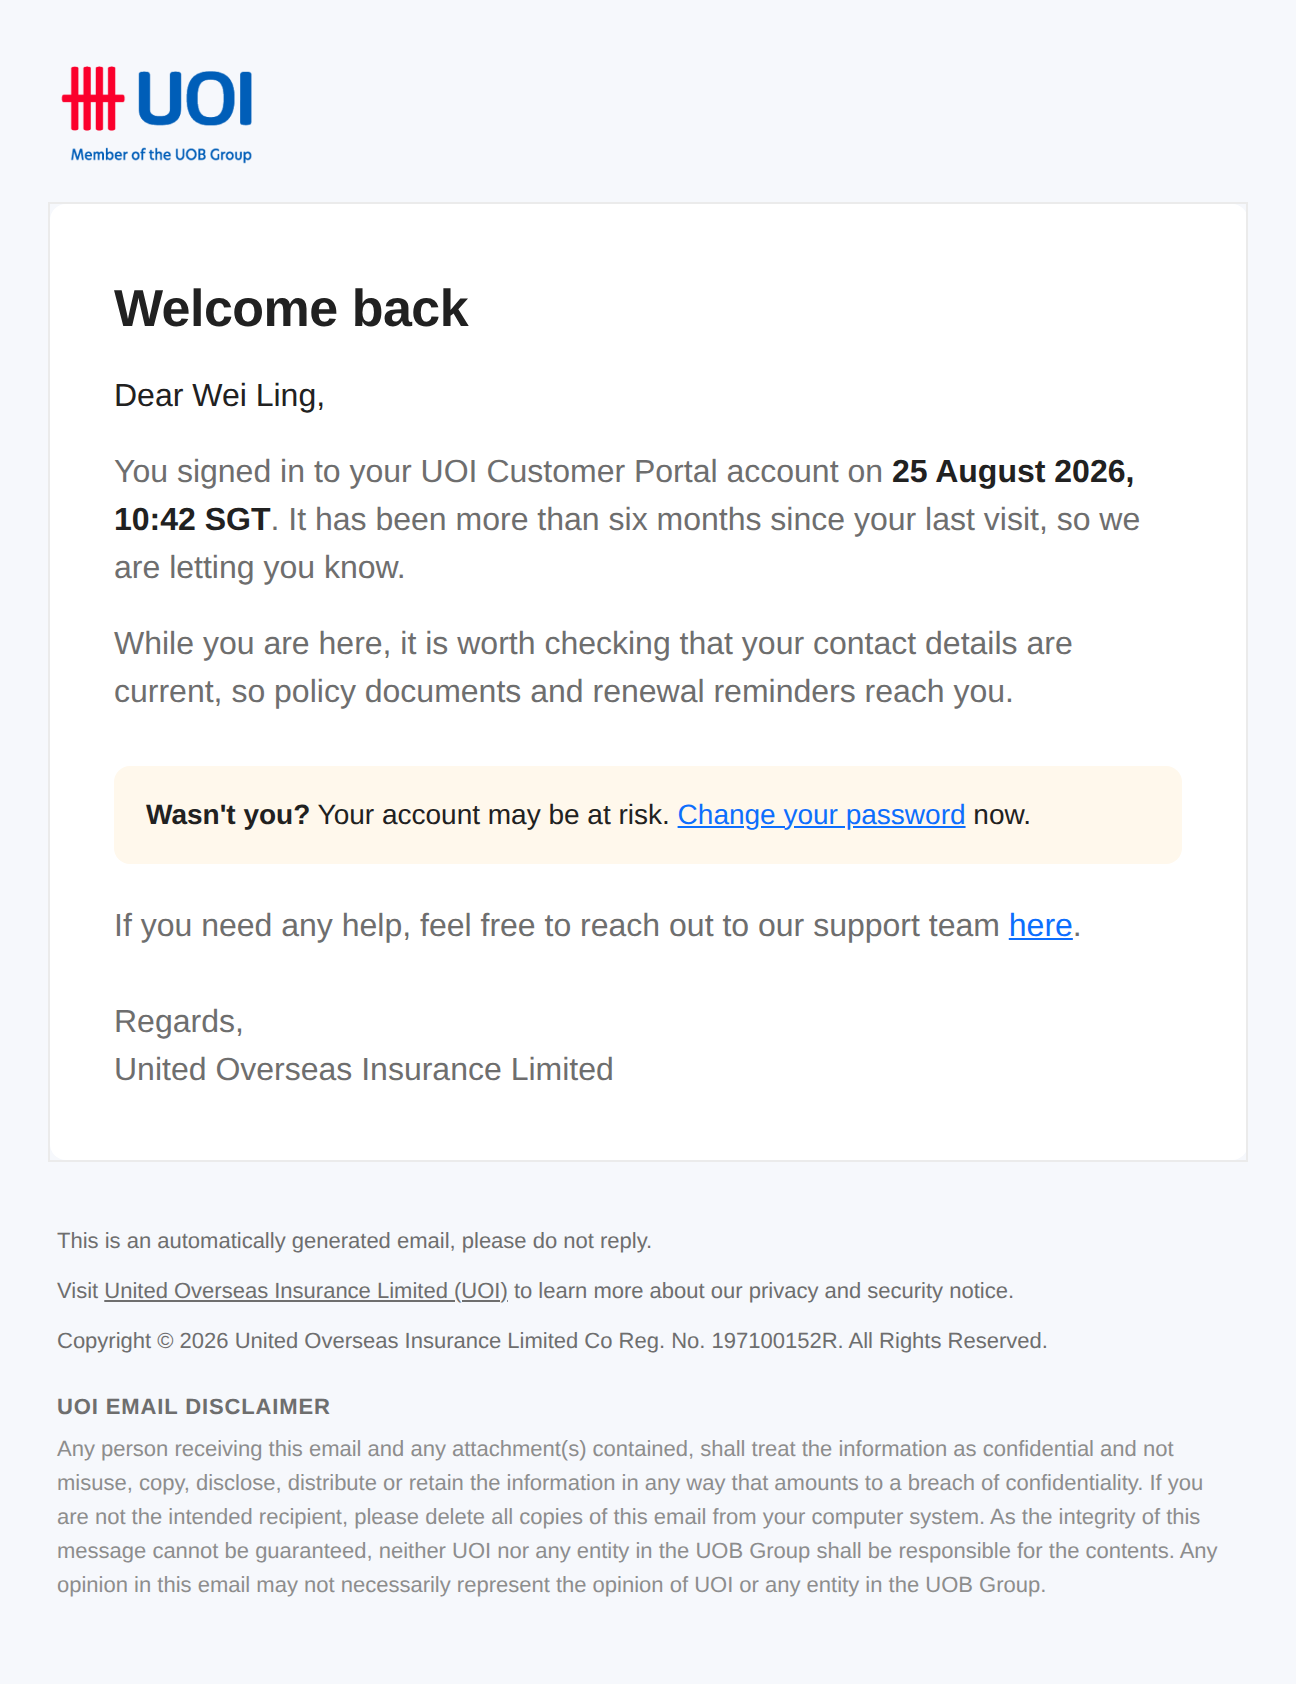
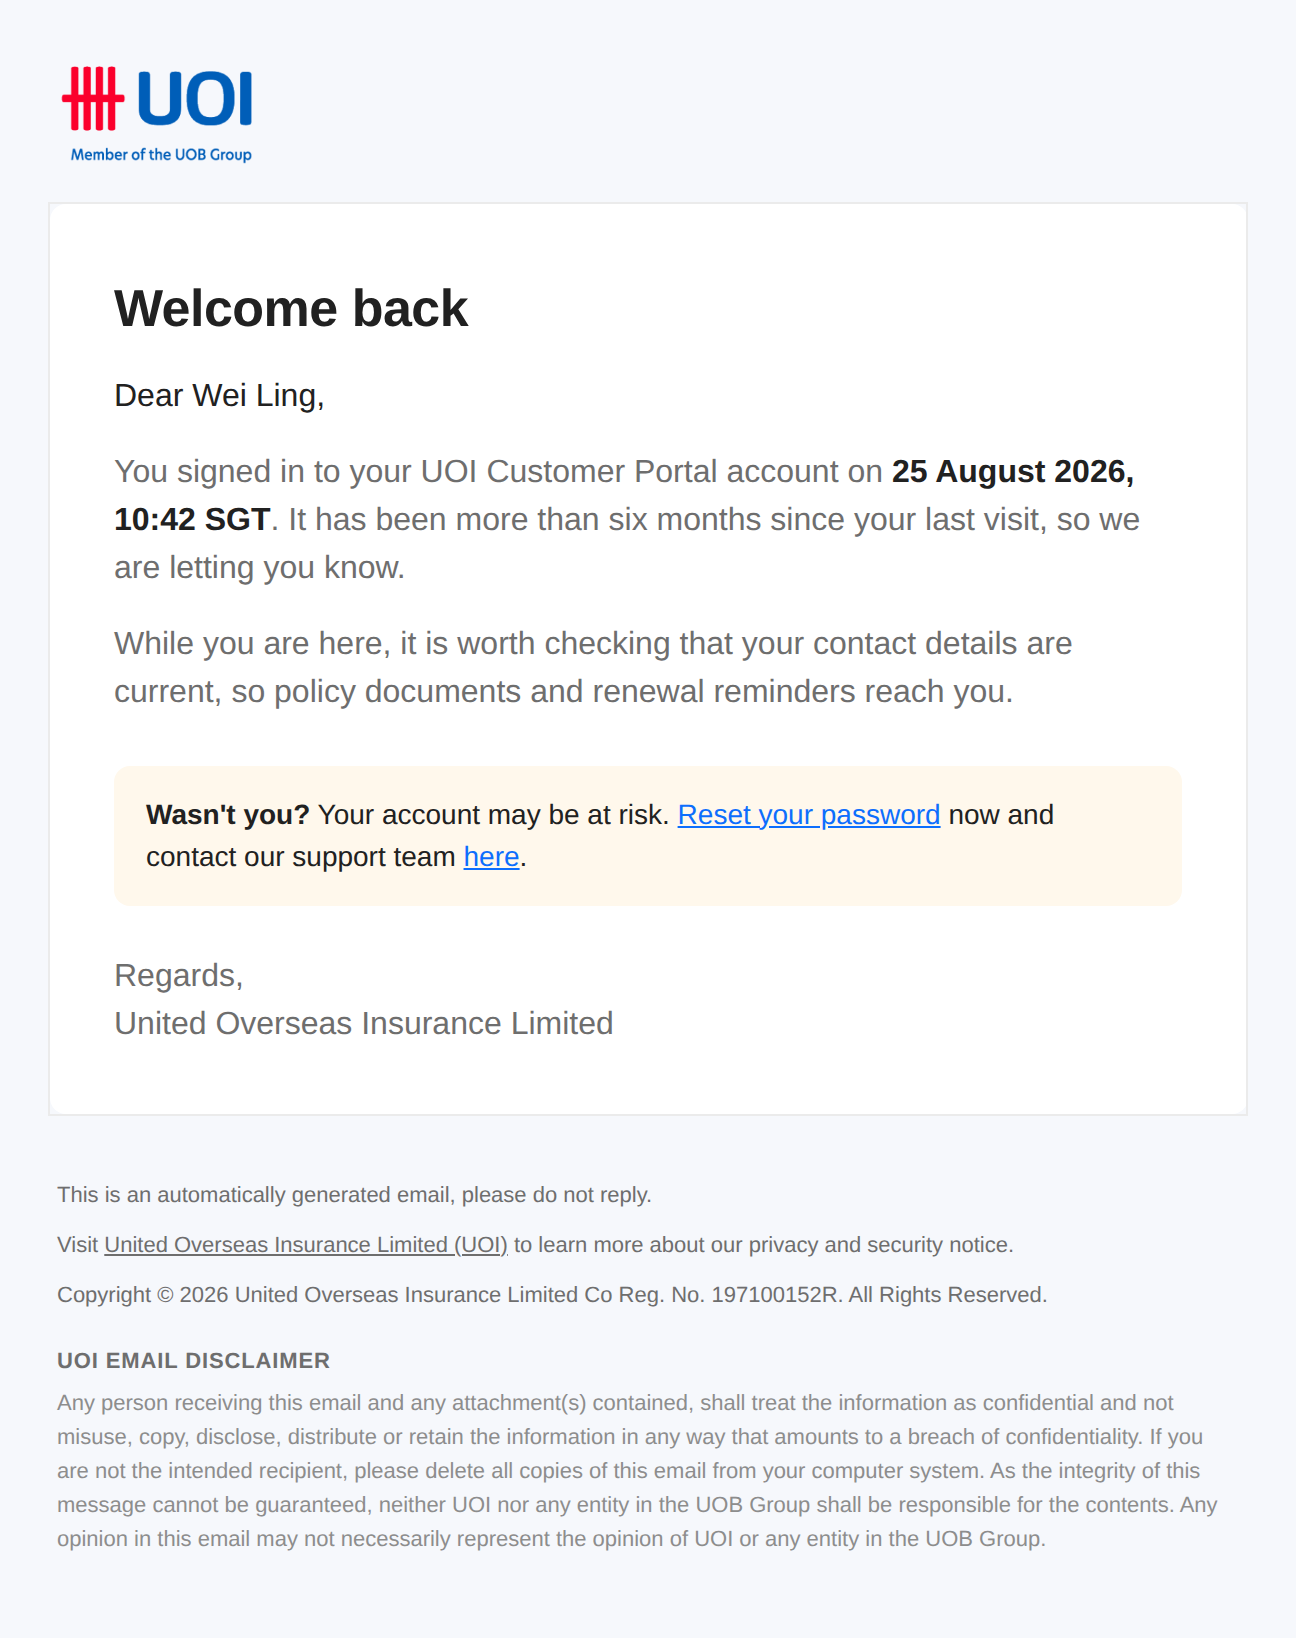
Close templates 6, 7 and 8 on the caution box
All three drop the help line. They confirm something that already happened, so
the caution box carries the recovery route and a second support line underneath
would just repeat it. Templates 1 to 5 keep the help line, since nothing has
happened yet that the reader might need to undo.

Caution copy per review: the support route becomes 'contact our support team
here', pointing at the WhatsApp line rather than the phone number, and template
6 now says 'Reset your password' against RESET_URL, matching template 8.

Adds a help_line switch to letter(), and drops CHANGE_PW_URL, now unused.

Claude-Session: https://claude.ai/code/session_01Ugy4CsjXngQbuZH3dm3bHN

diff --git a/emails/preview.html b/emails/preview.html
@@ -1188,14 +1188,9 @@
                 <tr>
                   <td style=&quot;background-color:#FFF8EC; border-radius:8px;
                              padding:14px 16px; font-family:'Noto Sans', -apple-system, BlinkMacSystemFont, 'Segoe UI', Arial, Helvetica, sans-serif; font-size:14px;
-                             line-height:1.5; color:#212121;&quot;><strong>Wasn't you?</strong> Your account may be at risk. <a href=&quot;https://portal.uoi.com.sg/account/password&quot; style=&quot;color:#0D6EFD; text-decoration:underline;&quot;>Change your password</a> now.</td>
+                             line-height:1.5; color:#212121;&quot;><strong>Wasn't you?</strong> Your account may be at risk. <a href=&quot;https://portal.uoi.com.sg/reset?t=a7f3c2e9&quot; style=&quot;color:#0D6EFD; text-decoration:underline;&quot;>Reset your password</a> now and contact our support team <a href=&quot;https://api.whatsapp.com/send/?phone=6580814843&amp;text&amp;type=phone_number&amp;app_absent=0&quot; style=&quot;color:#0D6EFD; text-decoration:underline;&quot;>here</a>.</td>
                 </tr>
               </table>
-
-              <div style=&quot;height:20px; line-height:20px; font-size:0;&quot;>&nbsp;</div>
-
-              <p style=&quot;margin:0px 0 0 0; font-family:'Noto Sans', -apple-system, BlinkMacSystemFont, 'Segoe UI', Arial, Helvetica, sans-serif; font-size:16px;
-                        line-height:1.5; color:#6E6E6E;&quot;>If you need any help, feel free to reach out to our support team <a href=&quot;https://api.whatsapp.com/send/?phone=6580814843&amp;text&amp;type=phone_number&amp;app_absent=0&quot; style=&quot;color:#0D6EFD; text-decoration:underline;&quot;>here</a>.</p>
 
               <div style=&quot;height:24px; line-height:24px; font-size:0;&quot;>&nbsp;</div>
 
@@ -1353,14 +1348,9 @@
                 <tr>
                   <td style=&quot;background-color:#FFF8EC; border-radius:8px;
                              padding:14px 16px; font-family:'Noto Sans', -apple-system, BlinkMacSystemFont, 'Segoe UI', Arial, Helvetica, sans-serif; font-size:14px;
-                             line-height:1.5; color:#212121;&quot;><strong>Wasn't you?</strong> Your account may be at risk. Call us now at <a href=&quot;tel:+6562227733&quot; style=&quot;color:#0D6EFD; text-decoration:underline;&quot;>(+65) 6222 7733</a>.</td>
+                             line-height:1.5; color:#212121;&quot;><strong>Wasn't you?</strong> Your account may be at risk. Contact our support team <a href=&quot;https://api.whatsapp.com/send/?phone=6580814843&amp;text&amp;type=phone_number&amp;app_absent=0&quot; style=&quot;color:#0D6EFD; text-decoration:underline;&quot;>here</a>.</td>
                 </tr>
               </table>
-
-              <div style=&quot;height:20px; line-height:20px; font-size:0;&quot;>&nbsp;</div>
-
-              <p style=&quot;margin:0px 0 0 0; font-family:'Noto Sans', -apple-system, BlinkMacSystemFont, 'Segoe UI', Arial, Helvetica, sans-serif; font-size:16px;
-                        line-height:1.5; color:#6E6E6E;&quot;>If you need any help, feel free to reach out to our support team <a href=&quot;https://api.whatsapp.com/send/?phone=6580814843&amp;text&amp;type=phone_number&amp;app_absent=0&quot; style=&quot;color:#0D6EFD; text-decoration:underline;&quot;>here</a>.</p>
 
               <div style=&quot;height:24px; line-height:24px; font-size:0;&quot;>&nbsp;</div>
 
@@ -1518,14 +1508,9 @@
                 <tr>
                   <td style=&quot;background-color:#FFF8EC; border-radius:8px;
                              padding:14px 16px; font-family:'Noto Sans', -apple-system, BlinkMacSystemFont, 'Segoe UI', Arial, Helvetica, sans-serif; font-size:14px;
-                             line-height:1.5; color:#212121;&quot;><strong>Wasn't you?</strong> Your account may be at risk. <a href=&quot;https://portal.uoi.com.sg/reset?t=a7f3c2e9&quot; style=&quot;color:#0D6EFD; text-decoration:underline;&quot;>Reset your password</a> now and call us at <a href=&quot;tel:+6562227733&quot; style=&quot;color:#0D6EFD; text-decoration:underline;&quot;>(+65) 6222 7733</a>.</td>
+                             line-height:1.5; color:#212121;&quot;><strong>Wasn't you?</strong> Your account may be at risk. <a href=&quot;https://portal.uoi.com.sg/reset?t=a7f3c2e9&quot; style=&quot;color:#0D6EFD; text-decoration:underline;&quot;>Reset your password</a> now and contact our support team <a href=&quot;https://api.whatsapp.com/send/?phone=6580814843&amp;text&amp;type=phone_number&amp;app_absent=0&quot; style=&quot;color:#0D6EFD; text-decoration:underline;&quot;>here</a>.</td>
                 </tr>
               </table>
-
-              <div style=&quot;height:20px; line-height:20px; font-size:0;&quot;>&nbsp;</div>
-
-              <p style=&quot;margin:0px 0 0 0; font-family:'Noto Sans', -apple-system, BlinkMacSystemFont, 'Segoe UI', Arial, Helvetica, sans-serif; font-size:16px;
-                        line-height:1.5; color:#6E6E6E;&quot;>If you need any help, feel free to reach out to our support team <a href=&quot;https://api.whatsapp.com/send/?phone=6580814843&amp;text&amp;type=phone_number&amp;app_absent=0&quot; style=&quot;color:#0D6EFD; text-decoration:underline;&quot;>here</a>.</p>
 
               <div style=&quot;height:24px; line-height:24px; font-size:0;&quot;>&nbsp;</div>
 

diff --git a/emails/08-password-changed.html b/emails/08-password-changed.html
@@ -89,14 +89,9 @@
                 <tr>
                   <td style="background-color:#FFF8EC; border-radius:8px;
                              padding:14px 16px; font-family:'Noto Sans', -apple-system, BlinkMacSystemFont, 'Segoe UI', Arial, Helvetica, sans-serif; font-size:14px;
-                             line-height:1.5; color:#212121;"><strong>Wasn't you?</strong> Your account may be at risk. <a href="{{reset_url}}" style="color:#0D6EFD; text-decoration:underline;">Reset your password</a> now and call us at <a href="tel:+6562227733" style="color:#0D6EFD; text-decoration:underline;">(+65) 6222 7733</a>.</td>
+                             line-height:1.5; color:#212121;"><strong>Wasn't you?</strong> Your account may be at risk. <a href="{{reset_url}}" style="color:#0D6EFD; text-decoration:underline;">Reset your password</a> now and contact our support team <a href="https://api.whatsapp.com/send/?phone=6580814843&amp;text&amp;type=phone_number&amp;app_absent=0" style="color:#0D6EFD; text-decoration:underline;">here</a>.</td>
                 </tr>
               </table>
-
-              <div style="height:20px; line-height:20px; font-size:0;">&nbsp;</div>
-
-              <p style="margin:0px 0 0 0; font-family:'Noto Sans', -apple-system, BlinkMacSystemFont, 'Segoe UI', Arial, Helvetica, sans-serif; font-size:16px;
-                        line-height:1.5; color:#6E6E6E;">If you need any help, feel free to reach out to our support team <a href="https://api.whatsapp.com/send/?phone=6580814843&amp;text&amp;type=phone_number&amp;app_absent=0" style="color:#0D6EFD; text-decoration:underline;">here</a>.</p>
 
               <div style="height:24px; line-height:24px; font-size:0;">&nbsp;</div>
 

diff --git a/emails/06-inactivity-signin.html b/emails/06-inactivity-signin.html
@@ -89,14 +89,9 @@
                 <tr>
                   <td style="background-color:#FFF8EC; border-radius:8px;
                              padding:14px 16px; font-family:'Noto Sans', -apple-system, BlinkMacSystemFont, 'Segoe UI', Arial, Helvetica, sans-serif; font-size:14px;
-                             line-height:1.5; color:#212121;"><strong>Wasn't you?</strong> Your account may be at risk. <a href="{{change_password_url}}" style="color:#0D6EFD; text-decoration:underline;">Change your password</a> now.</td>
+                             line-height:1.5; color:#212121;"><strong>Wasn't you?</strong> Your account may be at risk. <a href="{{reset_url}}" style="color:#0D6EFD; text-decoration:underline;">Reset your password</a> now and contact our support team <a href="https://api.whatsapp.com/send/?phone=6580814843&amp;text&amp;type=phone_number&amp;app_absent=0" style="color:#0D6EFD; text-decoration:underline;">here</a>.</td>
                 </tr>
               </table>
-
-              <div style="height:20px; line-height:20px; font-size:0;">&nbsp;</div>
-
-              <p style="margin:0px 0 0 0; font-family:'Noto Sans', -apple-system, BlinkMacSystemFont, 'Segoe UI', Arial, Helvetica, sans-serif; font-size:16px;
-                        line-height:1.5; color:#6E6E6E;">If you need any help, feel free to reach out to our support team <a href="https://api.whatsapp.com/send/?phone=6580814843&amp;text&amp;type=phone_number&amp;app_absent=0" style="color:#0D6EFD; text-decoration:underline;">here</a>.</p>
 
               <div style="height:24px; line-height:24px; font-size:0;">&nbsp;</div>
 

diff --git a/emails/07-login-id-changed.html b/emails/07-login-id-changed.html
@@ -89,14 +89,9 @@
                 <tr>
                   <td style="background-color:#FFF8EC; border-radius:8px;
                              padding:14px 16px; font-family:'Noto Sans', -apple-system, BlinkMacSystemFont, 'Segoe UI', Arial, Helvetica, sans-serif; font-size:14px;
-                             line-height:1.5; color:#212121;"><strong>Wasn't you?</strong> Your account may be at risk. Call us now at <a href="tel:+6562227733" style="color:#0D6EFD; text-decoration:underline;">(+65) 6222 7733</a>.</td>
+                             line-height:1.5; color:#212121;"><strong>Wasn't you?</strong> Your account may be at risk. Contact our support team <a href="https://api.whatsapp.com/send/?phone=6580814843&amp;text&amp;type=phone_number&amp;app_absent=0" style="color:#0D6EFD; text-decoration:underline;">here</a>.</td>
                 </tr>
               </table>
-
-              <div style="height:20px; line-height:20px; font-size:0;">&nbsp;</div>
-
-              <p style="margin:0px 0 0 0; font-family:'Noto Sans', -apple-system, BlinkMacSystemFont, 'Segoe UI', Arial, Helvetica, sans-serif; font-size:16px;
-                        line-height:1.5; color:#6E6E6E;">If you need any help, feel free to reach out to our support team <a href="https://api.whatsapp.com/send/?phone=6580814843&amp;text&amp;type=phone_number&amp;app_absent=0" style="color:#0D6EFD; text-decoration:underline;">here</a>.</p>
 
               <div style="height:24px; line-height:24px; font-size:0;">&nbsp;</div>
 

diff --git a/emails/build.py b/emails/build.py
@@ -325,7 +325,6 @@ def shell(title, preheader, blocks, after_card=""):
 # Templates
 # ─────────────────────────────────────────────────────────────────────────────
 
-CHANGE_PW_URL = "{{change_password_url}}"
 RESET_URL = "{{reset_url}}"
 
 # Shared closing lines, identical across all six.
@@ -344,7 +343,7 @@ def add(filename, subject, preheader, title, blocks, notes):
     })
 
 
-def letter(heading_text, paragraphs, middle=None, tail=None):
+def letter(heading_text, paragraphs, middle=None, tail=None, help_line=True):
     """The shape every template shares: heading, salutation, body, an optional
     block in the middle, optional trailing paragraphs, help line, sign-off."""
     out = [heading(heading_text), spacer(16), salutation("Dear {{first_name}},")]
@@ -354,8 +353,9 @@ def letter(heading_text, paragraphs, middle=None, tail=None):
         out += [spacer(24)] + middle
     for para_text in (tail or []):
         out += [spacer(20), para(para_text, 16, T["text_secondary"])]
-    out += [spacer(20), para(HELP_LINE, 16, T["text_secondary"]),
-            spacer(24), signoff()]
+    if help_line:
+        out += [spacer(20), para(HELP_LINE, 16, T["text_secondary"])]
+    out += [spacer(24), signoff()]
     return out
 
 
@@ -459,8 +459,9 @@ add(
          "While you are here, it is worth checking that your contact details are "
          "current, so policy documents and renewal reminders reach you."],
         middle=[notice("<strong>Wasn't you?</strong> Your account may be at risk. "
-                       + link("Change your password", CHANGE_PW_URL) + " now.",
-                       "caution")],
+                       + link("Reset your password", RESET_URL) + " now and contact our "
+                       "support team " + link("here", SUPPORT_URL) + ".", "caution")],
+        help_line=False,
     ),
     "The trigger is a login, so the message that earns its place is the one that "
     "lets a customer catch a sign-in that was not theirs.",
@@ -481,9 +482,9 @@ add(
          "<strong style=\"color:%s;\">{{change_datetime}}</strong>."
          % (T["text_primary"], T["text_primary"], T["text_primary"]),
          "Use your new login ID the next time you sign in."],
-        middle=[notice("<strong>Wasn't you?</strong> Your account may be at risk. Call us "
-                       f'now at {link(SUPPORT_TEL_DISPLAY, "tel:" + SUPPORT_TEL)}.',
-                       "caution")],
+        middle=[notice("<strong>Wasn't you?</strong> Your account may be at risk. Contact "
+                       "our support team " + link("here", SUPPORT_URL) + ".", "caution")],
+        help_line=False,
     ),
     "Send to the old address as well as the new one. The old address is the only "
     "one a hijacked account still reaches.",
@@ -501,9 +502,9 @@ add(
          "<strong style=\"color:%s;\">{{change_datetime}}</strong>." % T["text_primary"],
          "Use your new password the next time you sign in."],
         middle=[notice("<strong>Wasn't you?</strong> Your account may be at risk. "
-                       + link("Reset your password", RESET_URL) + " now and call us at "
-                       + link(SUPPORT_TEL_DISPLAY, "tel:" + SUPPORT_TEL) + ".",
-                       "caution")],
+                       + link("Reset your password", RESET_URL) + " now and contact our "
+                       "support team " + link("here", SUPPORT_URL) + ".", "caution")],
+        help_line=False,
     ),
     "Confirms a change the customer may not have made, which is the whole point.",
 )

diff --git a/emails/copy.md b/emails/copy.md
@@ -6,8 +6,10 @@ truth for wording.
 
 `{{fields}}` are merge fields, replaced at send time.
 
-Every email shares the same shape: heading, salutation, body, an OTP block or
-button, the help line, the sign-off, then the legal block below the card.
+Every email shares the same shape: heading, salutation, body, an OTP block,
+button or caution box, the sign-off, then the legal block below the card.
+Templates 1 to 5 also carry the help line; 6, 7 and 8 close on the caution box,
+which already routes to support.
 
 ---
 
@@ -107,8 +109,7 @@ button, the help line, the sign-off, then the legal block below the card.
 | Salutation | Dear {{first_name}}, |
 | Body 1 | You signed in to your UOI Customer Portal account on **{{login_datetime}}**. It has been more than six months since your last visit, so we are letting you know. |
 | Body 2 | While you are here, it is worth checking that your contact details are current, so policy documents and renewal reminders reach you. |
-| Caution box | **Wasn't you?** Your account may be at risk. [Change your password] now. |
-| Help | If you need any help, feel free to reach out to our support team [here]. |
+| Caution box | **Wasn't you?** Your account may be at risk. [Reset your password] now and contact our support team [here]. |
 | Sign-off | Regards,<br>United Overseas Insurance Limited |
 
 ---
@@ -124,8 +125,7 @@ button, the help line, the sign-off, then the legal block below the card.
 | Salutation | Dear {{first_name}}, |
 | Body 1 | Your login ID (email address) for UOI Customer Portal has been changed from **{{old_login_id}}** to **{{new_login_id}}** on **{{change_datetime}}**. |
 | Body 2 | Use your new login ID the next time you sign in. |
-| Caution box | **Wasn't you?** Your account may be at risk. Call us now at [(+65) 6222 7733]. |
-| Help | If you need any help, feel free to reach out to our support team [here]. |
+| Caution box | **Wasn't you?** Your account may be at risk. Contact our support team [here]. |
 | Sign-off | Regards,<br>United Overseas Insurance Limited |
 
 **Send this to the old address as well as the new one.** If someone else changed
@@ -144,8 +144,7 @@ the login ID, the old address is the only one the customer still reaches.
 | Salutation | Dear {{first_name}}, |
 | Body 1 | The password for your UOI Customer Portal account was changed on **{{change_datetime}}**. |
 | Body 2 | Use your new password the next time you sign in. |
-| Caution box | **Wasn't you?** Your account may be at risk. [Reset your password] now and call us at [(+65) 6222 7733]. |
-| Help | If you need any help, feel free to reach out to our support team [here]. |
+| Caution box | **Wasn't you?** Your account may be at risk. [Reset your password] now and contact our support team [here]. |
 | Sign-off | Regards,<br>United Overseas Insurance Limited |
 
 ---

diff --git a/emails/README.md b/emails/README.md
@@ -72,10 +72,11 @@ to work out what matters:
 | 2 | `notice()` | tinted box, 8px radius | what to do if it was not you |
 | 3 | `fine()` | 13px, `#8D8D8D`, behind a hairline | security note, support |
 
-**8. Each email states what to do if it wasn't you.**
-Login OTP: change your password. Reset link: ignore it, nothing happens.
-Change Login ID: call us now, don't enter the code. This is the highest-value
-copy in a security email and the current template has none of it.
+**8. The three notice emails say what to do if it wasn't you.**
+Templates 6, 7 and 8 confirm something that already happened, so a caution box
+carries the recovery route and they close on it rather than repeating a help
+line underneath. Templates 1 to 5 keep the help line, since nothing has
+happened yet that the reader might need to undo.
 
 ---
 
@@ -143,11 +144,10 @@ per-template copy is in the `TEMPLATES` section near the bottom.
 | `{{change_datetime}}` | 7, 8 |
 | `{{old_login_id}}` / `{{new_login_id}}` | 4, 7 |
 | `{{reset_url}}` | 2, 8 |
-| `{{change_password_url}}` | 6 |
 
-Template 5's button links to `PORTAL_URL`; the `here` support link in all five
-points at `SUPPORT_URL`, the same WhatsApp line the portal uses
-(`AuthUI.tsx`). Both are constants, not merge fields.
+Template 5's button links to `PORTAL_URL`; every `here` support link points at
+`SUPPORT_URL`, the same WhatsApp line the portal uses (`AuthUI.tsx`). Both are
+constants, not merge fields.
 
 3. **Send a plain-text alternative.** Transactional mail without a `text/plain`
    part takes a spam-score hit. The code and the URL are all it needs to contain.
